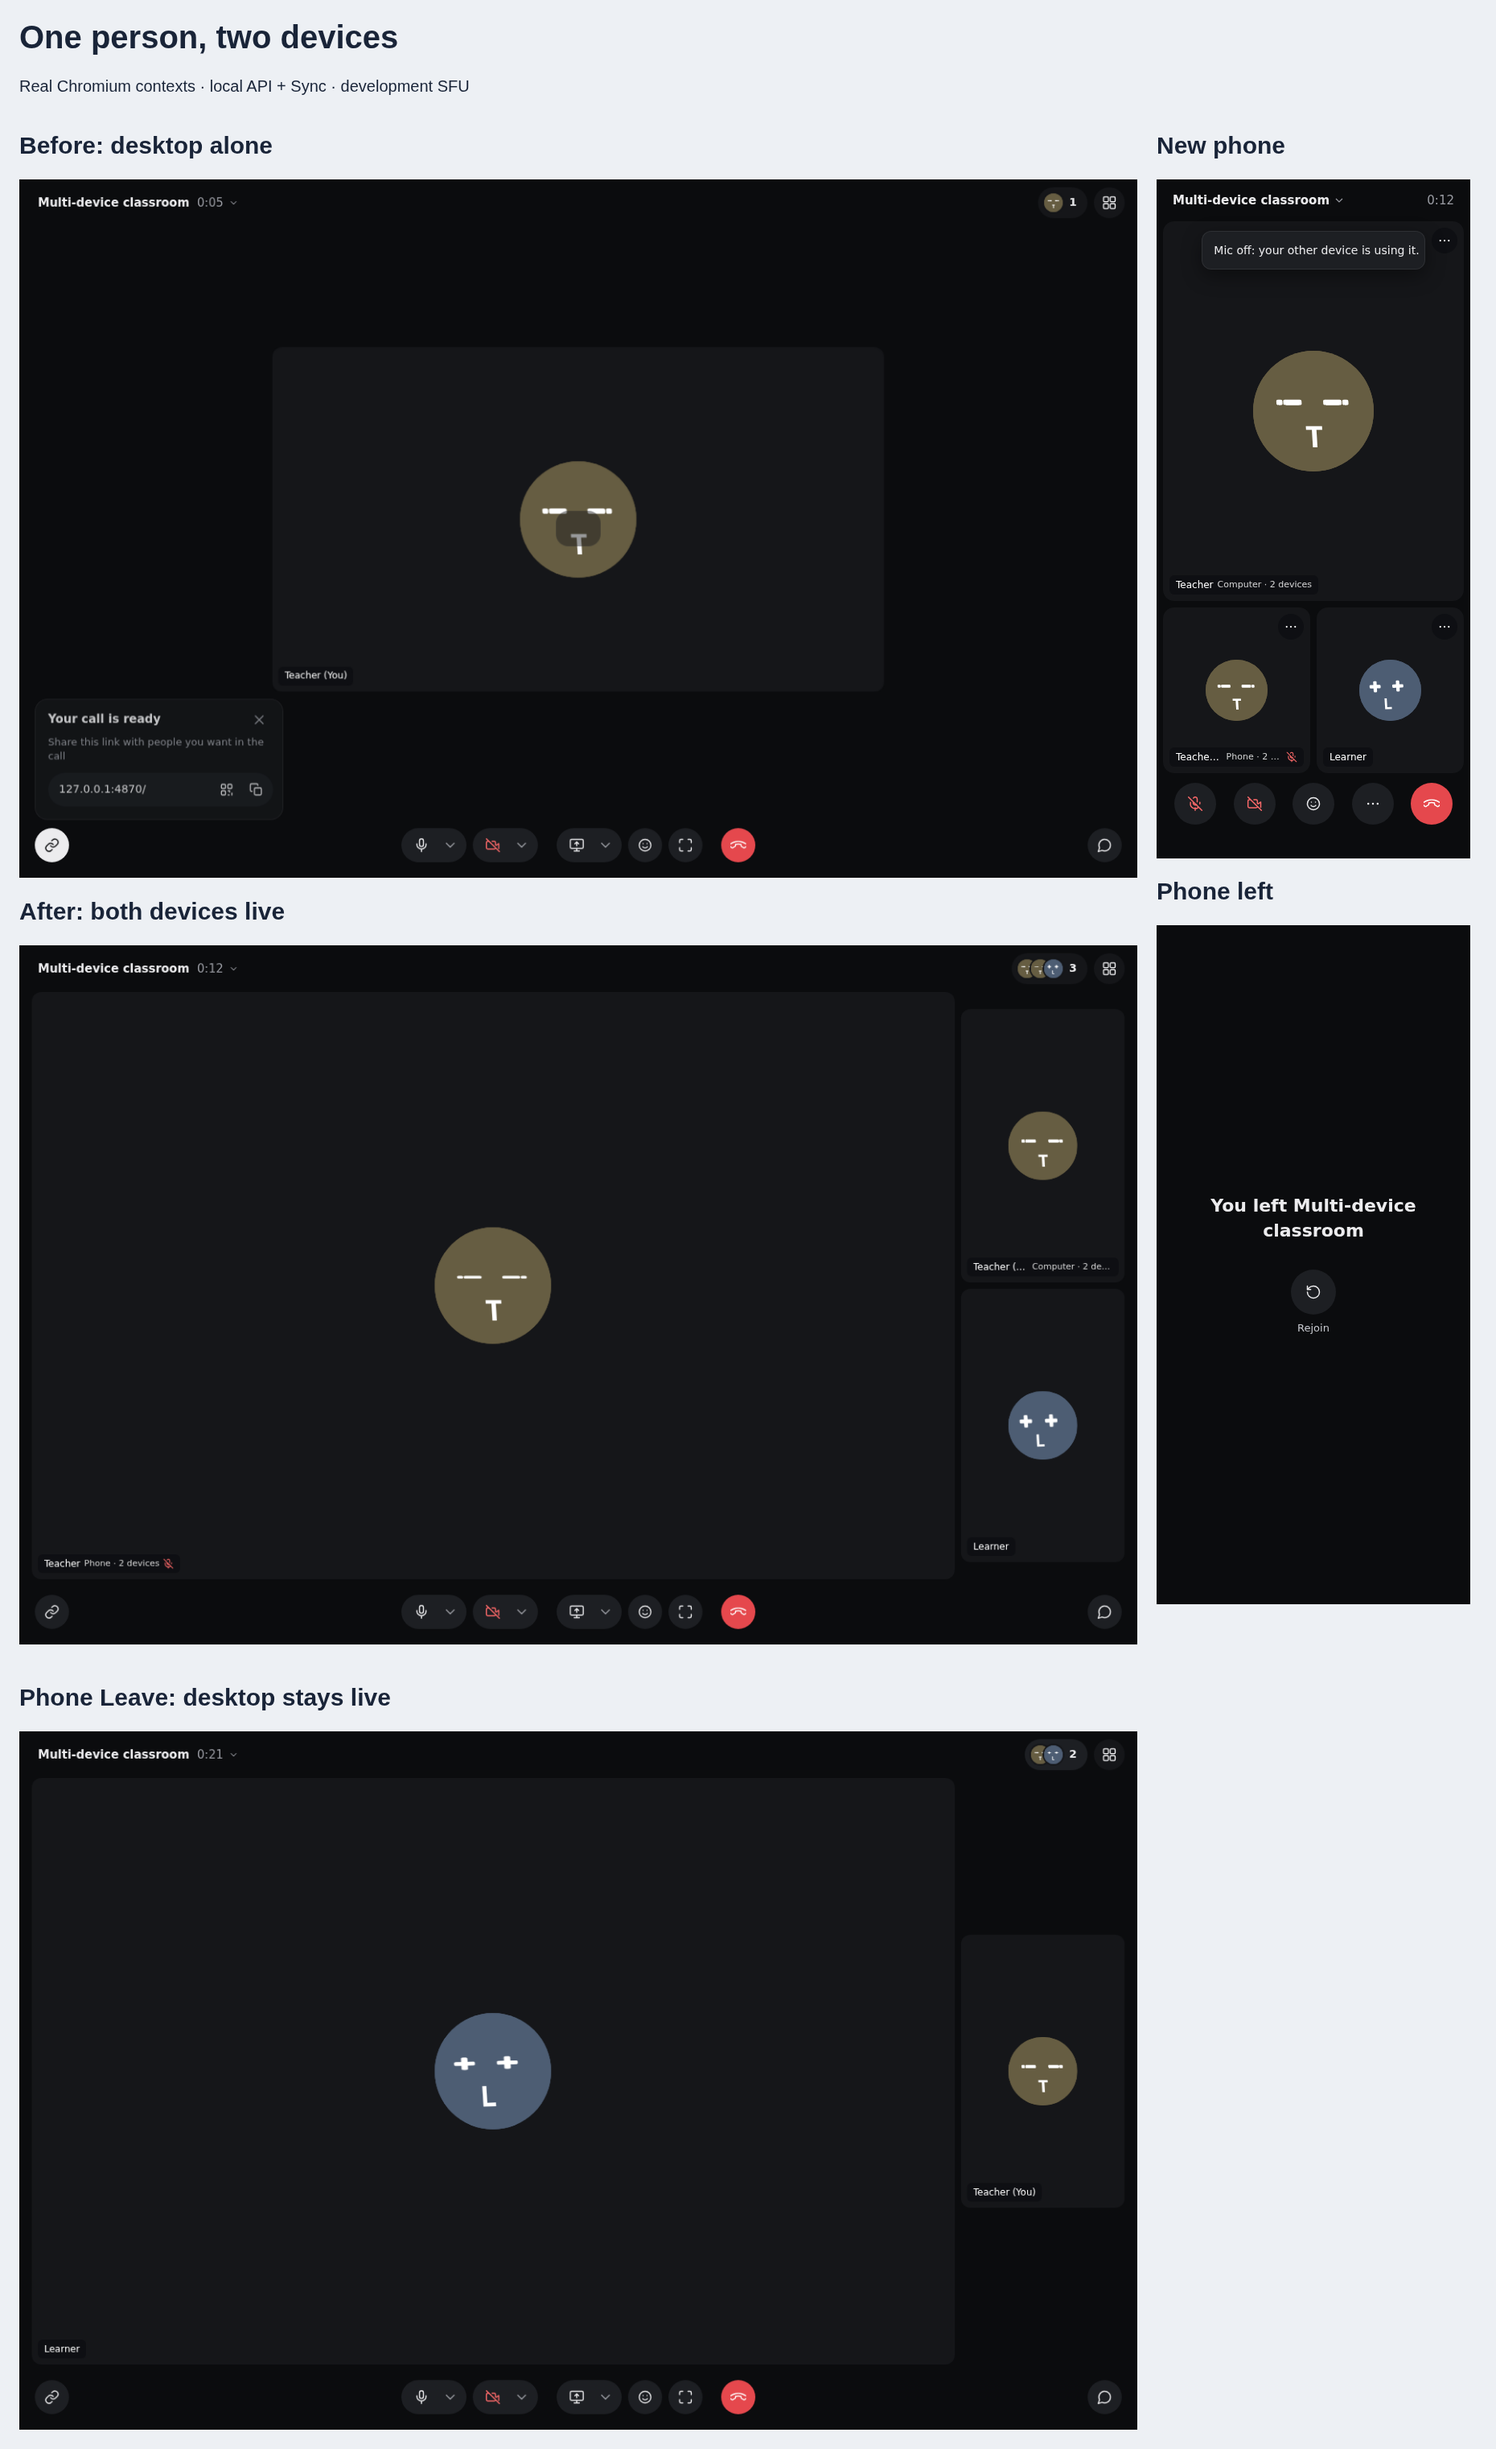
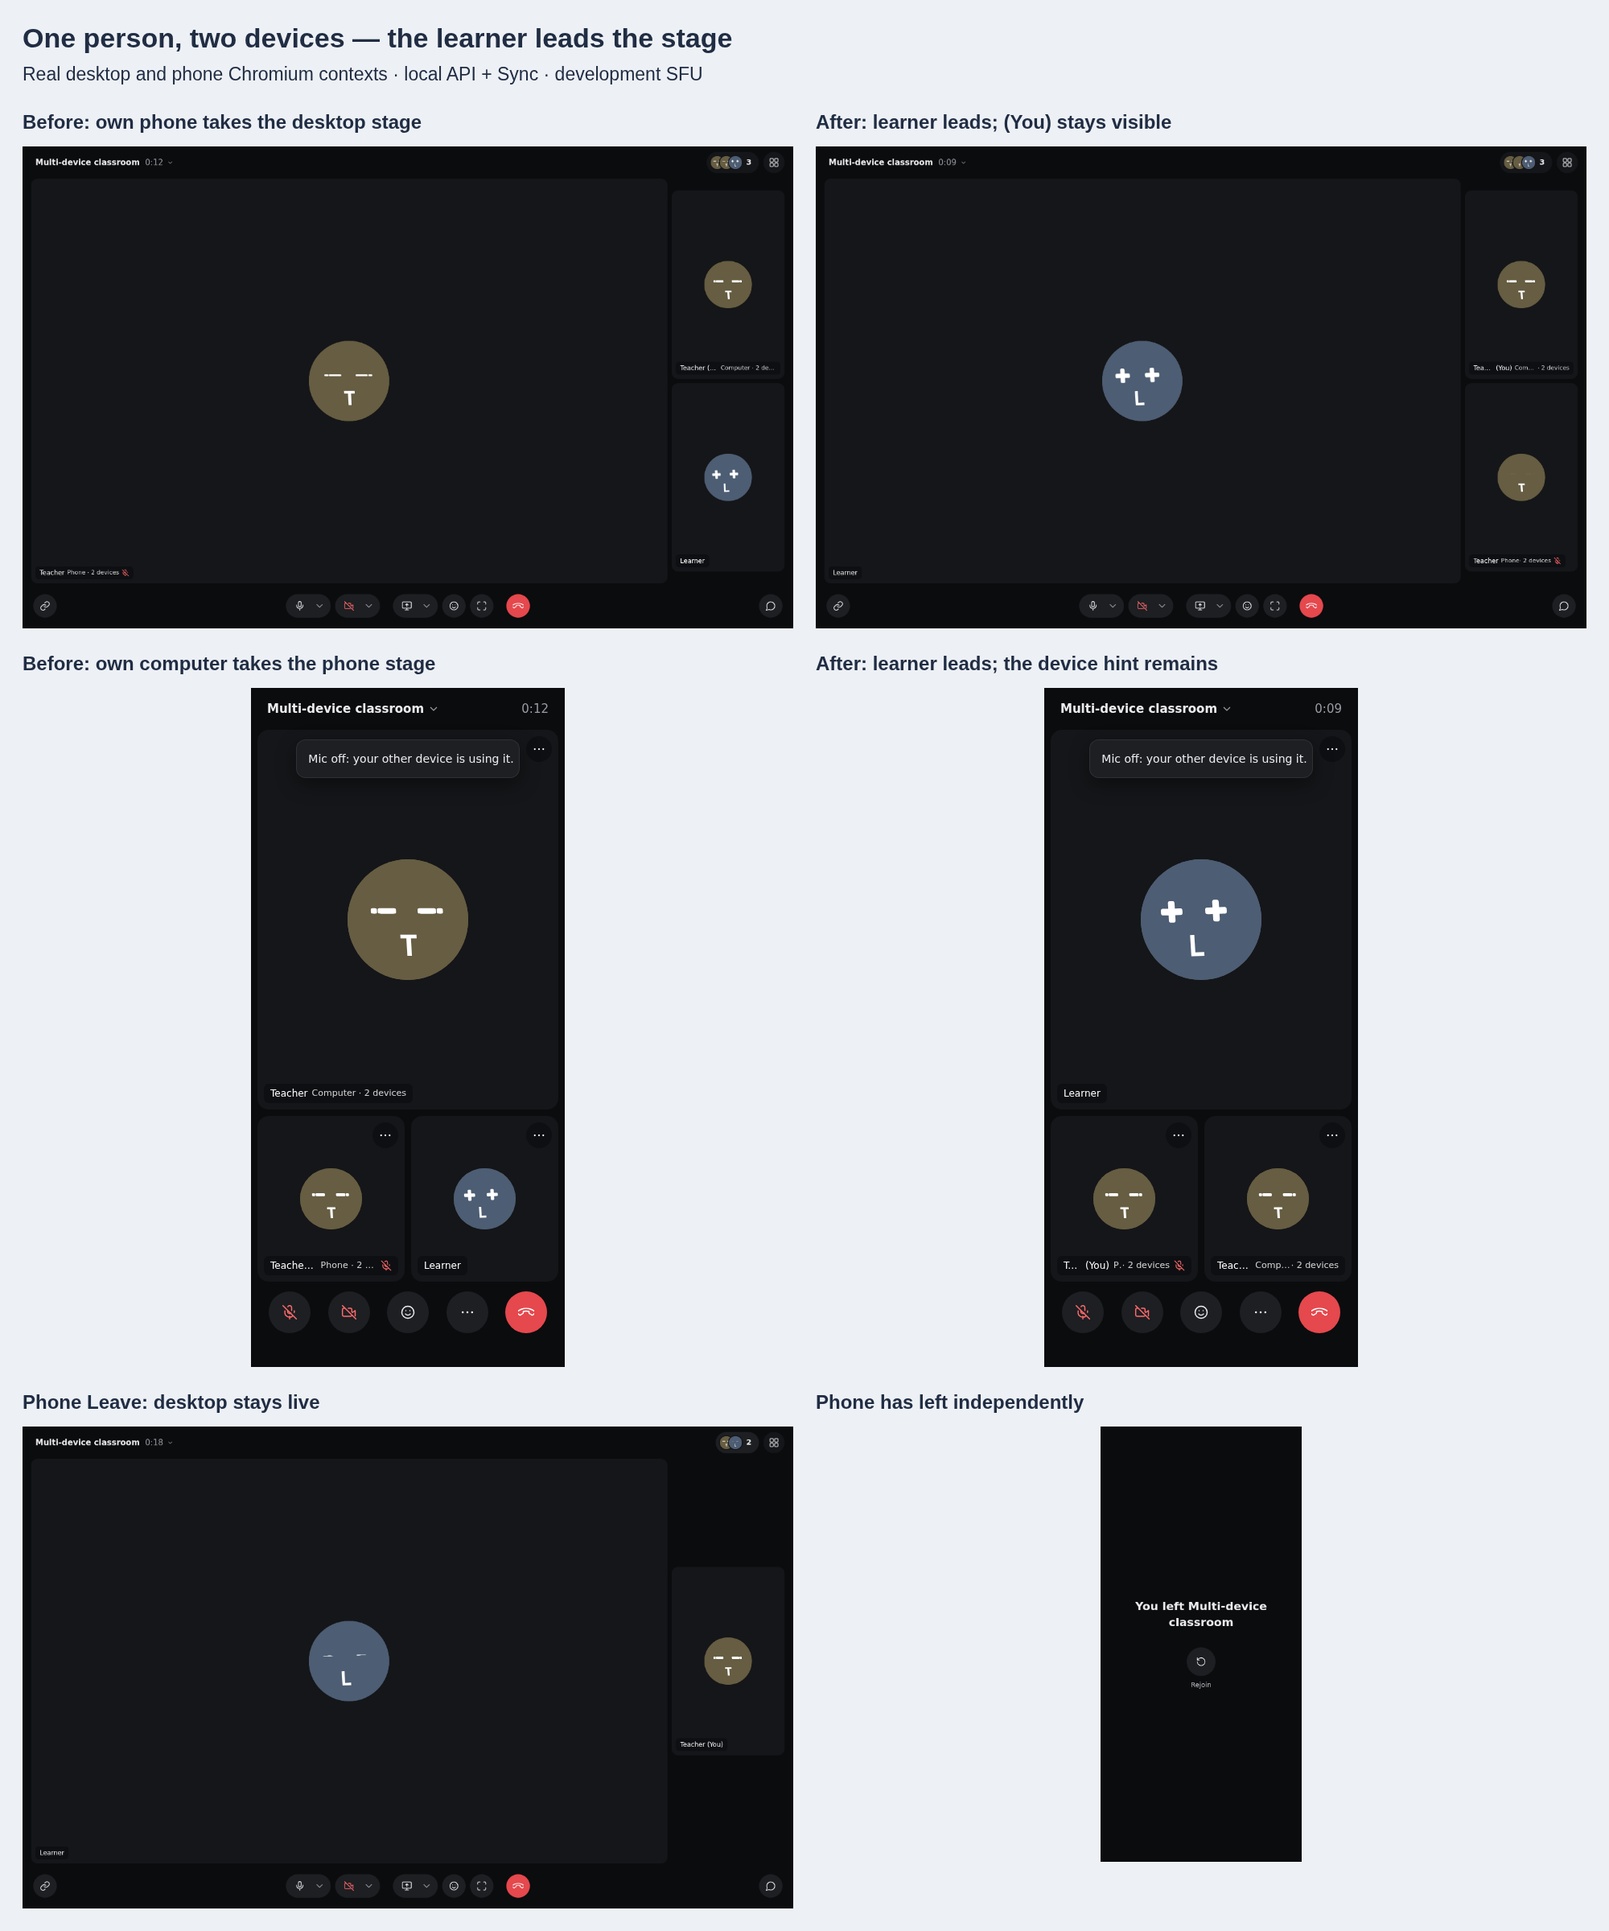
fix(ui): preserve device counts and show the corrected stage proof

diff --git a/sdks/typescript/react/src/components/participant-tile/ParticipantTile.tsx b/sdks/typescript/react/src/components/participant-tile/ParticipantTile.tsx
@@ -98,6 +98,7 @@ export const ParticipantTileSurface = React.memo(function ParticipantTileSurface
   const prefersReducedMotion = usePrefersReducedMotion();
   const phone = useMediaQuery("(max-width:640px)");
   const [localMirrored] = useMirrorSetting();
+  const [deviceLabel, ...deviceDetails] = participant.deviceHint?.split(" · ") ?? [];
   const mirrored = mirror ?? (participant.isLocal === true && localMirrored);
   const colors = useMemo(() => getParticipantColor(participant.displayName || participant.id, gradientPreference), [gradientPreference, participant.displayName, participant.id]);
   const recipe = useMemo(() => getParticipantAvatarRecipe(participant.displayName || participant.id, gradientPreference), [participant.displayName, participant.id, gradientPreference]);
@@ -168,8 +169,9 @@ export const ParticipantTileSurface = React.memo(function ParticipantTileSurface
               </>
             )}
             {participant.deviceHint ? (
-              <span data-part="tile-device" className="min-w-0 truncate text-[11px] opacity-80">
-                {participant.deviceHint}
+              <span data-part="tile-device" className="inline-flex min-w-[70px] text-[11px] opacity-80">
+                <span className="min-w-0 truncate">{deviceLabel}</span>
+                {deviceDetails.length > 0 && <span className="shrink-0">{` · ${deviceDetails.join(" · ")}`}</span>}
               </span>
             ) : null}
             {following ? (
